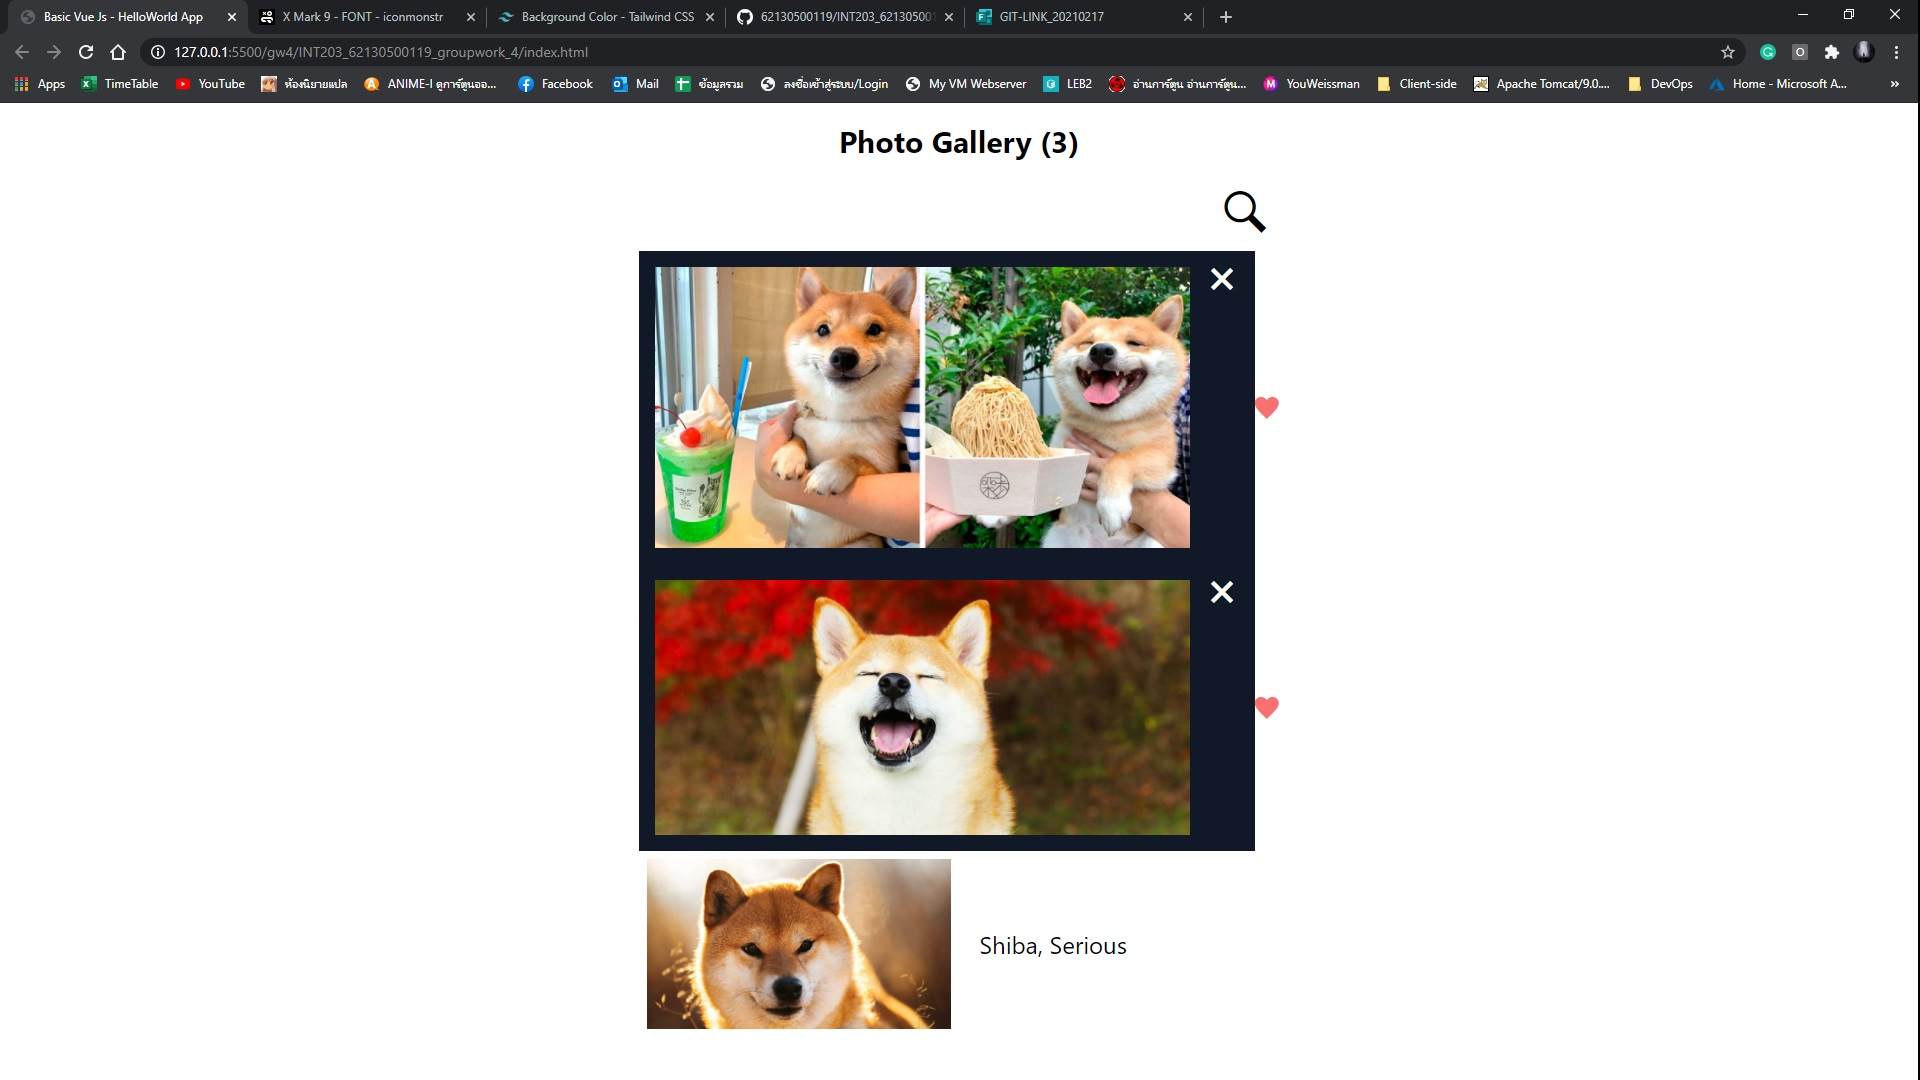
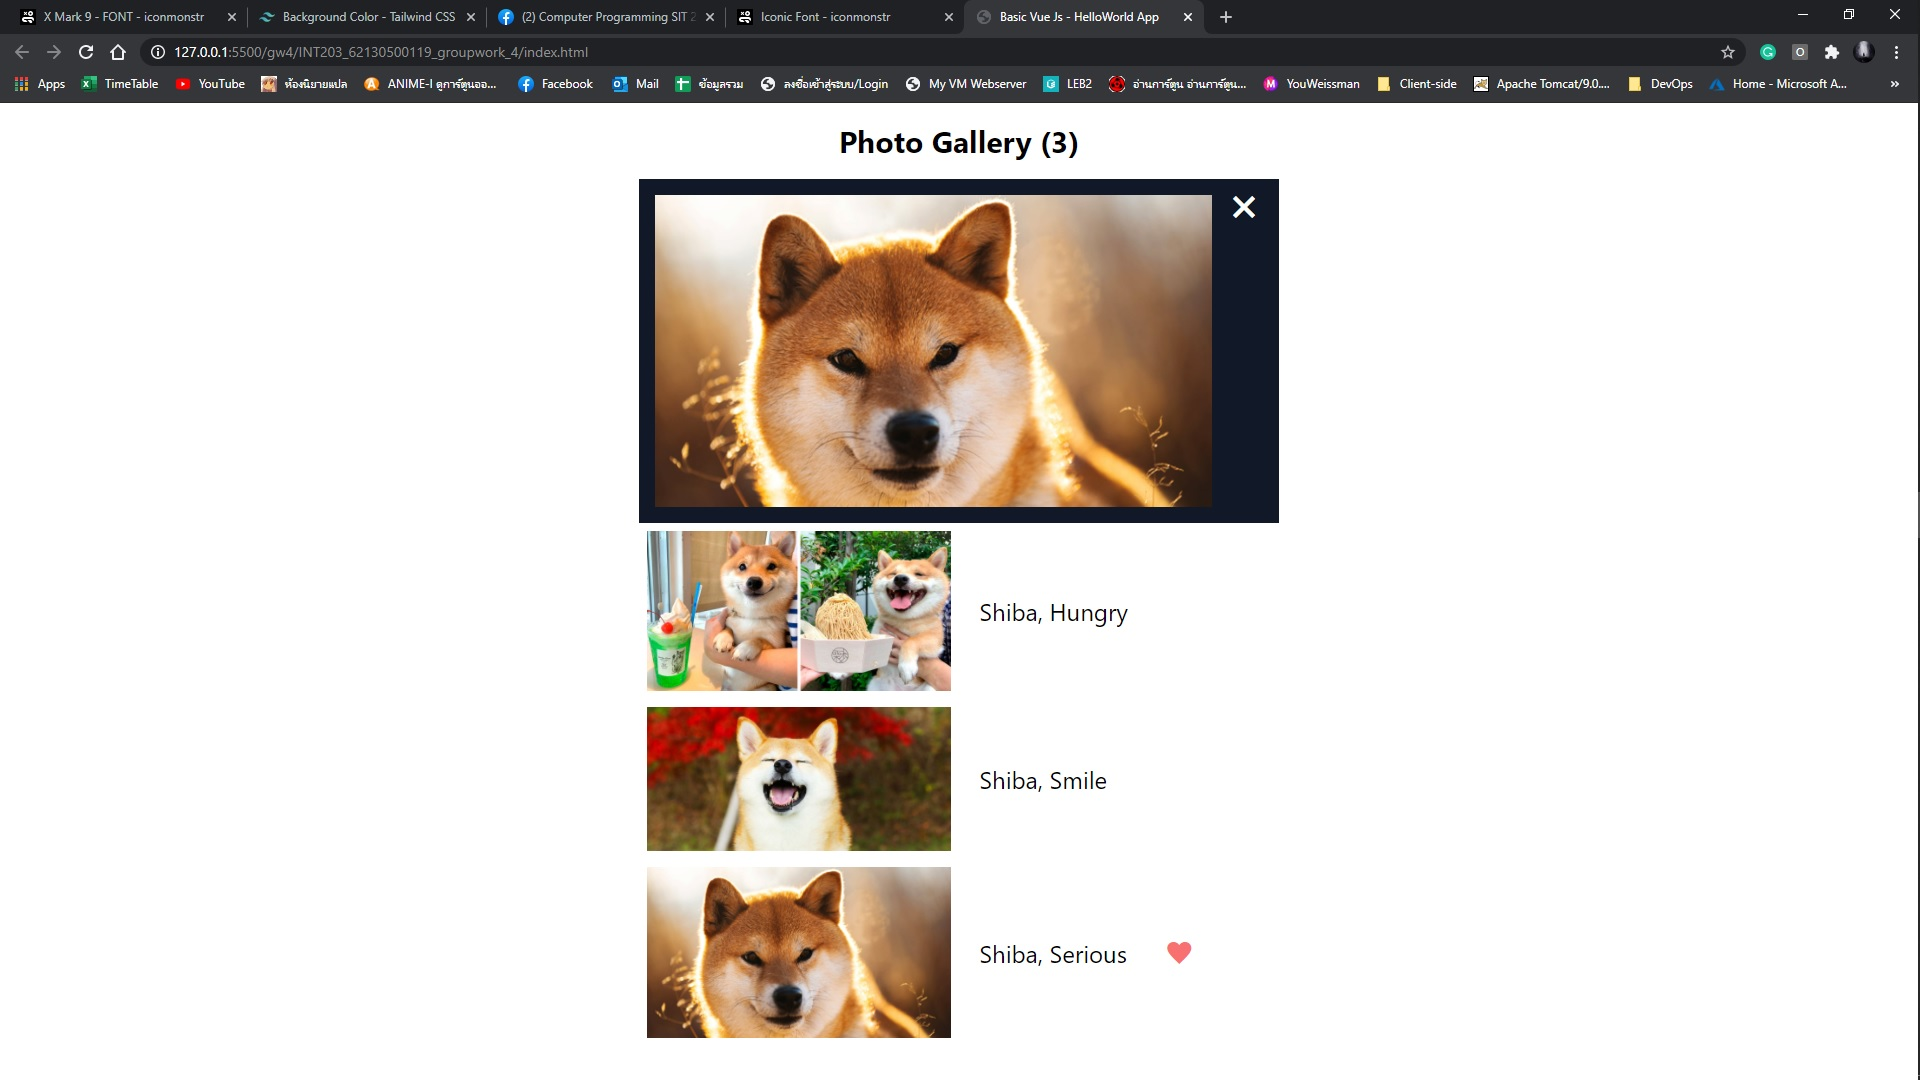
[UPDATE] Fix Canvas

diff --git a/index.html b/index.html
@@ -27,28 +27,28 @@
 <body>
   <div id="app" class="flex flex-col justify-center items-center">
     <h1 class="text-3xl font-bold py-5">Photo Gallery ({{countPhoto}})</h1>
-    <div class="w-2/6 p-3 flex flex-row-reverse">
-      <button v-show="search" @click="toggleSearch"><i class="im im-magnifier" style="font-size: 2.65em"></i></button>
+    <div class="w-2/6 p-3 flex flex-row-reverse" v-show="!canvas">
+      <button v-show="search" @click="toggleSearch" class="focus:outline-none"><i class="im im-magnifier" style="font-size: 2.65em"></i></button>
       <button v-show="cancel" @click="toggleSearch"
         class="w-20 h-12 mx-1 text-xl text-white bg-blue-500 rounded-md">Cancel</button>
       <input v-show="input" type="text" v-model="inputTask" @keyup.enter="searching" placeholder="Enter a new task ..."
         class="bg-white rounded flex-1 border-b-2 border-blue-300 focus:outline-none">
     </div>
+    <div class="w-2/6 p-4 bg-gray-900 flex" v-show="canvas">
+      <img :src="canvasSrc" class="w-11/12">
+      <button v-on:click="canvas = false" class="h-1/4 focus:outline-none items-start">
+        <i class="im im-x-mark text-white mx-5"></i>
+      </button>
+    </div>
     <ul class="w-2/6">
-      <li v-for="img in images" v-show="img.show" class="flex items-center">
-        <button v-on:click="img.done = !img.done" class="focus:outline-none">
-          <img :src="img.src" v-show="!img.done" class="w-80 p-2">
+      <li v-for="(img,index) in images" class="flex items-center" v-show="img.show">
+        <button v-on:click="showCanvas(index)" class="focus:outline-none">
+          <img :src="img.src" class="w-80 p-2">
         </button>
-        <div class="w-full p-4 bg-gray-900 flex" v-show="img.done">
-          <img :src="img.src" class="w-11/12">
-          <button v-on:click="img.done = !img.done" class="h-1/4 focus:outline-none items-start">
-            <i class="im im-x-mark text-white mx-5"></i>
-          </button>
-        </div>
-        <span class="w-52" v-show="!img.done">
+        <span class="w-52">
           <p class="text-2xl px-5">{{img.title}}</p>
         </span>
-        <i v-show="img.done" class="im im-heart text-red-400"></i>
+        <i class="im im-heart text-red-400" v-show="img.done"></i>
       </li>
       <div v-show="nopic" class="p-10 flex justify-center items-center">
         <h1 class="text-4xl font-bold">No Picture!</h2>

diff --git a/main.js b/main.js
@@ -7,7 +7,9 @@
                 search: true,
                 cancel: false,
                 input: false,
-                nopic: false
+                nopic: false,
+                canvas: false,
+                canvasSrc: ''
             }
         },
         methods: {
@@ -42,6 +44,11 @@
                         this.nopic = false;
                     }
                 }
+            },
+            showCanvas(index){
+                this.canvasSrc = this.images[index].src;
+                this.canvas = true;
+                this.images[index].done = !this.images[index].done;
             }
         },
         computed: {
